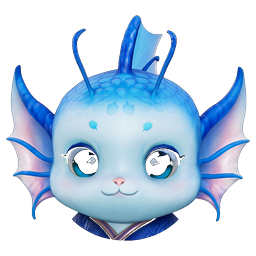
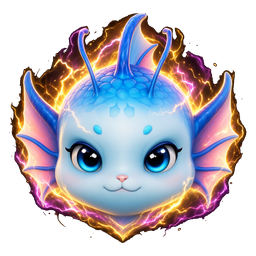
Preview: forward-facing themed spirit art v2
Front-view chibi spirits: friendly header Chunryu, crowned Top 20
Chunryu, and powered-up Haeryu/Haeryeong with gold-magenta lightning.
Cache mir4-v59, icons ?v=4.

diff --git a/index.html b/index.html
@@ -132,7 +132,7 @@ header::before{content:"";position:absolute;left:0;right:0;top:0;height:420px;z-
 .hwl{display:block;padding:8px 12px 12px;margin-top:2px;border-top:1px solid #2e1532}.hwx{display:inline-block;background:linear-gradient(90deg,#5a1450,#a3277f);color:#ffe8a0;padding:1px 7px;border-radius:4px;font-size:11px}.hwx s{text-decoration:line-through;text-decoration-color:#e8c872;text-decoration-thickness:2px}.hwg{color:#b9a3bd;font-size:11px;letter-spacing:.06em;text-transform:uppercase;margin:10px 0 4px}.hwi{display:flex;align-items:center;gap:10px;padding:6px 0;border-bottom:1px solid #2e1532;font-size:13px;color:#f2e8f2;line-height:1.35}.hwi:last-child{border-bottom:0}.hwk{flex:0 0 112px;display:flex;align-items:center;gap:3px;flex-wrap:wrap;color:#e8c872;font-size:12px}.hwk .ico{width:14px;height:14px}.hwrk{display:inline-flex;align-items:center;justify-content:center;width:17px;height:17px;border-radius:50%;border:1px solid rgba(232,200,114,.85);background:rgba(40,10,40,.85);color:#ffe9b0;font-size:10px;font-weight:800}.hwnlx{display:inline-block;font-size:11px;font-weight:600;line-height:1;padding:2px 5px;border-radius:999px;border:1px solid #6b2a5a;color:#f9a8d4;background:rgba(42,15,46,.7)}.hwrib{position:relative;display:inline-block;width:70px;height:30px;overflow:hidden;border-radius:7px;border:1px solid #6b2a5a;background:#1c0b20}
 .bfempty{margin:18px 4px;padding:16px 14px;border:1px dashed #5a3a5e;border-radius:12px;background:#1c1020;color:#e8c872;font-size:14px;line-height:1.45;text-align:center}.soldh:first-child{margin-top:4px}.soldnote{font-size:12px;color:#b9a3bd;margin:0 0 8px;line-height:1.4}.soldh{margin:14px 2px 8px;font-size:12px;font-weight:700;letter-spacing:.06em;text-transform:uppercase;color:#e8c872}.card.soldc{opacity:.92}.card.soldc .sci{padding:14px}.card.soldc .r1{display:flex;justify-content:space-between;align-items:flex-start;gap:10px}.card.soldc .r1>div{min-width:0}.card.soldc .nm{display:flex;align-items:center;gap:6px}.card.soldc .nm>*{flex:none}.card.soldc .soldb{margin-top:1px}.soldb{display:inline-flex;align-items:center;gap:4px;flex:none;max-width:52%;white-space:normal;text-align:center;line-height:1.2;padding:4px 7px;border-radius:5px;background:#e8c872;color:#2a1030;font-size:11px;font-weight:700}.tpa{margin:0 0 14px;padding-bottom:10px;border-bottom:1px solid #3a2040;max-width:100%;overflow-x:hidden}.tpa h4{font-weight:600}
 </style></head><body>
-<header><div class="htitle"><img class="spirit-ico" src="icons/spirit-header.png?v=3" alt="" width="56" height="56" decoding="async"><h1>MIR4 NFT Character Deal Finder</h1></div><div class="sub" id="meta">loading…</div><div id="msum" style="margin-top:6px;font-size:13px;color:#f2e8f2;background:rgba(42,15,46,.6);border:1px solid #6b2a5a;border-radius:8px;padding:6px 10px"></div></header>
+<header><div class="htitle"><img class="spirit-ico" src="icons/spirit-header.png?v=4" alt="" width="56" height="56" decoding="async"><h1>MIR4 NFT Character Deal Finder</h1></div><div class="sub" id="meta">loading…</div><div id="msum" style="margin-top:6px;font-size:13px;color:#f2e8f2;background:rgba(42,15,46,.6);border:1px solid #6b2a5a;border-radius:8px;padding:6px 10px"></div></header>
 <div class="ctl">
 <div class="sortl qs"><button data-s="strongest" title="Strongest first: build score, then cheaper">💪 Strongest</button><button data-s="best_buy" title="Best buy: build score + 1.5 x % under fair">🏆 Best buy</button><button data-s="value" title="Value per dollar: power and build score per $1k">💎 Value</button></div><label class="sortl" title="Sort order">↕ Sort<select id="fsort"><option value="strongest">Strongest first (build score, then cheaper)</option><option value="age_d">Longest listed first</option><option value="age_new">Newest on market first</option><option value="value">Value per $ (power and build per $1k)</option><option value="ps_k">Power per $1k</option><option value="bs_k">Build score per $1k</option><option value="best_buy">Best buy (build score + 1.5 × % under fair)</option><option value="discount">Best deal (% under fair)</option><option value="build_score">Build score (in-class ranks, see How build is calculated)</option><option value="atk">Highest ATK</option><option value="skill_dmg">Highest Skill ATK boost</option><option value="pvp_dmg">Highest PvP ATK</option><option value="def">Highest DEF</option><option value="eva">Highest EVA</option><option value="usd_asc">Lowest price</option><option value="newest">Newest listed</option><option value="price_cut">Price cut (biggest first)</option><option value="ps">Highest power</option></select></label>
 <label title="Class">🧙 Class<select id="fcls"><option value="">All</option></select></label>
@@ -350,4 +350,4 @@ bcmp.onclick=()=>{const cs=D.listings.filter(x=>sel.has(x.id));
  return `<tr><td>${l}</td>`+v.map(n=>`<td class="${n===best?'best':''}">${typeof n=='number'&&n>99999?big(n):typeof n=='number'?f(n,1):n??'–'}</td>`).join('')+'</tr>'}).join('')+'</table>';cmp.scrollIntoView()};
 document.querySelectorAll('.qs button').forEach(b=>b.onclick=()=>{fsort.value=b.dataset.s;draw()});
 {const _d=draw;draw=function(){document.querySelectorAll('.qs button').forEach(b=>b.classList.toggle('on',b.dataset.s==fsort.value));return _d.apply(this,arguments)}}
-</script><script src="premium.js?v=34"></script><script src="share.js?v=9"></script><script src="trend.js?v=3"></script><script src="wemix1h.js?v=6"></script><script src="strength.js?v=2"></script><script src="history.js?v=11"></script><script src="power.js?v=10"></script><script src="top20.js?v=50"></script><script src="boss.js?v=18"></script><script src="soldsearch.js?v=9"></script><script src="wemixlive.js?v=1"></script><script src="wemixhist.js?v=1"></script><script src="nav.js?v=30"></script></body></html>
+</script><script src="premium.js?v=34"></script><script src="share.js?v=9"></script><script src="trend.js?v=3"></script><script src="wemix1h.js?v=6"></script><script src="strength.js?v=2"></script><script src="history.js?v=11"></script><script src="power.js?v=11"></script><script src="top20.js?v=51"></script><script src="boss.js?v=18"></script><script src="soldsearch.js?v=9"></script><script src="wemixlive.js?v=1"></script><script src="wemixhist.js?v=1"></script><script src="nav.js?v=30"></script></body></html>

diff --git a/power.js b/power.js
@@ -54,12 +54,12 @@ PW.tool=function(){const q=document.getElementById('pwq'),L=document.getElementB
  const btn=(on,attr,t)=>`<button ${attr} style="font:inherit;font-size:12px;font-weight:600;padding:3px 10px;border-radius:999px;border:1px solid #5a3a5e;background:${on?'#e8c872':'#1c1020'};color:${on?'#2a1030':'#b9a3bd'};display:inline-flex;align-items:center;gap:0">${t}</button>`;
  const row=(k,i,big,small)=>{const[n,s]=k.split('|');return `<div data-k="${E(k)}" role="button" tabindex="0" style="display:flex;justify-content:space-between;align-items:center;gap:8px;width:100%;text-align:left;background:none;border:0;border-bottom:1px solid #3a2040;color:#f2e8f2;padding:8px 2px;font-size:13px;box-sizing:border-box"><span style="display:flex;align-items:center;min-width:0;flex:1"><span class="rk">${i+1}</span><span style="min-width:0;overflow-wrap:anywhere">${E(n)} ${svt(s)}</span></span><span style="white-space:nowrap;text-align:right;flex:none"><b style="color:#e8c872">${big}</b>${small?`<br><small style="color:#b9a3bd">${small}</small>`:''}</span></div>`};
  const grow=()=>PW.load().then(J=>{if(!J)return;const nd=(J.days||[]).length;let body,foot;
-  const head='<div style="display:flex;gap:6px;flex-wrap:wrap;margin:14px 0 6px">'+btn(mode=='top','data-m="top"','<img class="spico" src="icons/spirit-head-haeryu.png?v=3" alt="" width="30" height="30" decoding="async" loading="lazy"> Top power')+btn(mode=='grow','data-m="grow"','🚀 Fastest growing')+'</div>';
+  const head='<div style="display:flex;gap:6px;flex-wrap:wrap;margin:14px 0 6px">'+btn(mode=='top','data-m="top"','<img class="spico" src="icons/spirit-head-haeryu.png?v=4" alt="" width="30" height="30" decoding="async" loading="lazy"> Top power')+btn(mode=='grow','data-m="grow"','🚀 Fastest growing')+'</div>';
   if(mode=='top'){const T=PW.top(J,srv||null),S=PW.svs(J),n=Math.min(shown,T.length);
    const opts='<option value="">All servers</option>'+S.map(s=>`<option value="${E(s)}"${s==srv?' selected':''}>${E(s)}</option>`).join('');
    const pick=`<label style="display:block;margin:4px 0 8px;font-size:12px;color:#b9a3bd">Server<select id="pwsv" style="display:block;width:100%;max-width:100%;box-sizing:border-box;margin-top:4px;padding:9px 12px;border-radius:10px;border:1px solid #5a2550;background:#1a0f1e;color:#f2e8f2;font-size:15px">${opts}</select></label>`;
    const more=T.length>n?`<button data-more style="display:block;width:100%;margin:8px 0 2px;padding:9px 12px;border-radius:10px;border:1px solid #5a3a5e;background:#1c1020;color:#e8c872;font:inherit;font-size:13px;font-weight:600">Show more (${n} of ${T.length})</button>`:'';
-   const title=srv?`<img class="spico lg" src="icons/spirit-head-haeryeong.png?v=3" alt="" width="42" height="42" decoding="async" loading="lazy"> Top power · ${E(srv)}`:`<img class="spico lg" src="icons/spirit-head-haeryeong.png?v=3" alt="" width="42" height="42" decoding="async" loading="lazy"> Top power`;
+   const title=srv?`<img class="spico lg" src="icons/spirit-head-haeryeong.png?v=4" alt="" width="42" height="42" decoding="async" loading="lazy"> Top power · ${E(srv)}`:`<img class="spico lg" src="icons/spirit-head-haeryeong.png?v=4" alt="" width="42" height="42" decoding="async" loading="lazy"> Top power`;
    body='<div style="font-weight:700;color:#e8c872;font-size:14px;margin-bottom:4px">'+title+'</div>'+pick+(T.length?T.slice(0,n).map((r,i)=>row(r[0],i,'⚡ '+fm(r[1]),r[2]<r[1]*(1-PW.DIP)?'now '+fm(r[2])+', deck swap':'')).join('')+more:'<div style="font-size:13px;color:#b9a3bd;padding:8px 0">No characters on this server in the latest rankings yet.</div>');
    foot=srv?'Highest power on '+E(srv)+' in the latest daily rankings. A sudden drop usually means an EXP spirit and magic stone setup, so we rank by the best power of the last 7 days.':'Highest power in the latest daily rankings. Pick a server to rank its top 100. A sudden drop usually means an EXP spirit and magic stone setup, so we rank by the best power of the last 7 days.'}
   else{const rows=PW.grow(J,+win,srv||null),S=PW.svs(J),tabs=['7','30'].map(w=>btn(w==win,`data-w="${w}"`,`Last ${w} days`)).join(' ');

diff --git a/top20.js b/top20.js
@@ -23,7 +23,7 @@ const P=new URLSearchParams(location.search);
 const full=P.get('q')||P.get('sort')||P.get('region')||P.get('view')||location.hash.startsWith('#open1');
 document.body.classList.toggle('simple',!full);
 const hdr=document.querySelector('header'),box=document.createElement('div');box.id='t20';hdr.after(box);
-const back=document.createElement('button');back.id='back20';back.innerHTML='<img class="spico" src="icons/spirit-head-rabbit.png?v=3" alt="" width="30" height="30" decoding="async" loading="lazy"> Top 20';hdr.after(back);
+const back=document.createElement('button');back.id='back20';back.innerHTML='<img class="spico" src="icons/spirit-head-rabbit.png?v=4" alt="" width="30" height="30" decoding="async" loading="lazy"> Top 20';hdr.after(back);
 back.onclick=()=>{document.body.classList.add('simple');scrollTo(0,0)};
 const fm=n=>n==null?'–':Number(n).toLocaleString(undefined,{maximumFractionDigits:0});
 const TANK=['Taoist','Warrior','Lionheart'];const ALL=(window.T20S&&T20S.ALL)||['Warrior','Sorcerer','Taoist','Arbalist','Lancer','Darkist'];let selCls=localStorage.mir4t20c||'All';if(selCls!='All'&&!ALL.includes(selCls))selCls='All';
@@ -63,7 +63,7 @@ function autoNL(){const g=box.querySelector('.nlg');if(!g||g._as)return;g._as=1;
  requestAnimationFrame(step)}
 function render(){const R=score(T20S.pick(D.listings));const L=(selCls=='All'?R:R.filter(x=>x.cls==selCls)).slice(0,selCls=='All'?20:10);const ci=c=>`<img loading="lazy" decoding="async" src="icons/class/${c.toLowerCase()}.webp" alt="${c}" title="${c}">`;
  const chips=`<div class="fb"><button class="al${selCls=='All'?' on':''}" data-c="All">All</button>`+ALL.map(c=>`<button data-c="${c}" class="${selCls==c?'on':''}">${ci(c)}${c}</button>`).join('')+'</div>';
- box.innerHTML=`<div class="hd"><b><img class="spico lg" src="icons/spirit-head-chunryu.png?v=3" alt="" width="42" height="42" decoding="async" loading="lazy"> Top 20 strongest</b><span style="display:flex;gap:8px;align-items:center"><a href="classes.html" id="bycls" style="color:#e8c872;font-weight:700;font-size:13px;text-decoration:none">Top by class →</a><button id="mbtn">☰ More</button></span></div>${chips}${latest2()}`+
+ box.innerHTML=`<div class="hd"><b><img class="spico lg" src="icons/spirit-head-chunryu.png?v=4" alt="" width="42" height="42" decoding="async" loading="lazy"> Top 20 strongest</b><span style="display:flex;gap:8px;align-items:center"><a href="classes.html" id="bycls" style="color:#e8c872;font-weight:700;font-size:13px;text-decoration:none">Top by class →</a><button id="mbtn">☰ More</button></span></div>${chips}${latest2()}`+
  L.map((x,i)=>`<div class="tr20${x.discount>0?' u':''}" data-id="${x.id}"><div class="rw">${cb(x.cls,i+1)}<div style="min-width:0"><div class="n">${x.name}</div><div class="m">${keys(x)}<span>⚡ ${fm(x.ps/1000)}k</span><span>${I('gauge')} ${x.build_score}</span>${x.full_conf=='low'?'<span title="few similar sales">⚠</span>':''}${AGE.chip(x)}</div>${AGE.badges(x)?'<div>'+AGE.badges(x)+'</div>':''}</div><div class="p"><b>$${fm(x.usd)}</b><small>${fm(x.wemix)} W</small><small class="w1h" data-w="${x.wemix}"></small><span class="d ${x.discount>0?'pos':'neg'}">${x.discount==null?'':x.discount>0?'▼ '+x.discount+'% under':'▲ '+(-x.discount)+'% over'}</span></div></div></div>`).join('');
  mbtn.onclick=()=>{document.body.classList.remove('simple');scrollTo(0,0)};box.querySelectorAll('.fb [data-c]').forEach(b=>b.onclick=()=>{selCls=b.dataset.c;localStorage.mir4t20c=selCls;render()});autoNL();
  box.querySelectorAll('.nb a.fn').forEach(a=>a.onclick=e=>{e.stopPropagation();solo(a.dataset.l,D.listings)});

diff --git a/sw.js b/sw.js
@@ -1,7 +1,7 @@
 // Service worker: fast repeat visits and offline support. Also handles notification clicks.
-const V='mir4-v58',SHELL=['./','index.html','classes.html','guide.html','changelog.html','offline.html','manifest.json',
-'icons/ui/listed.svg','nav.js?v=30','age.js?v=6','strength.js?v=2','premium.js?v=34','share.js?v=9','icons/ui/share.svg','trend.js?v=3','wemix1h.js?v=6','wemixlive.js?v=1','wemixhist.js?v=1','history.js?v=11','power.js?v=10','top20.js?v=50','boss.js?v=18','soldsearch.js?v=9',
-'icons/banner-m.jpg?v=1','icons/app-192.png?v=4','icons/spirit-header.png?v=3','icons/spirit-head-chunryu.png?v=3','icons/spirit-head-rabbit.png?v=3','icons/spirit-head-haeryeong.png?v=3','icons/spirit-head-haeryu.png?v=3'];
+const V='mir4-v59',SHELL=['./','index.html','classes.html','guide.html','changelog.html','offline.html','manifest.json',
+'icons/ui/listed.svg','nav.js?v=30','age.js?v=6','strength.js?v=2','premium.js?v=34','share.js?v=9','icons/ui/share.svg','trend.js?v=3','wemix1h.js?v=6','wemixlive.js?v=1','wemixhist.js?v=1','history.js?v=11','power.js?v=11','top20.js?v=51','boss.js?v=18','soldsearch.js?v=9',
+'icons/banner-m.jpg?v=1','icons/app-192.png?v=4','icons/spirit-header.png?v=4','icons/spirit-head-chunryu.png?v=4','icons/spirit-head-rabbit.png?v=4','icons/spirit-head-haeryeong.png?v=4','icons/spirit-head-haeryu.png?v=4'];
 self.addEventListener('install',e=>{self.skipWaiting();e.waitUntil(caches.open(V).then(c=>Promise.all(SHELL.map(u=>c.add(u).catch(()=>{})))))});
 self.addEventListener('activate',e=>e.waitUntil(caches.keys().then(ks=>Promise.all(ks.filter(k=>k.startsWith('mir4-')&&k!==V&&k!==V+'-data').map(k=>caches.delete(k)))).then(()=>self.clients.claim())));
 const isData=u=>u.pathname.endsWith('.json');

diff --git a/changelog.html b/changelog.html
@@ -17,7 +17,7 @@ header::before{content:"";position:absolute;left:0;right:0;top:0;height:420px;z-
 :where(body>header,body>main,body>section,body>#app,body>.wrap){position:relative;z-index:1}
 body{position:relative;isolation:isolate}body::before{content:"";position:absolute;left:0;right:0;top:0;height:340px;z-index:-1;pointer-events:none;background:linear-gradient(90deg,rgba(18,10,20,.85),rgba(18,10,20,.3) 50%,transparent 75%),url(icons/banner-m.jpg?v=1) 72% center/cover no-repeat;opacity:.45;-webkit-mask-image:linear-gradient(180deg,#000 50%,transparent);mask-image:linear-gradient(180deg,#000 50%,transparent)}.sb{background:rgba(28,16,32,.6)!important;backdrop-filter:blur(6px);position:sticky;z-index:2}main{position:relative;z-index:1}
 .it small.ts{display:block;margin-top:3px;font-size:11px;color:#9c86a0;letter-spacing:.02em}</style></head>
-<body><div class="sb"><a href="./">← Back</a><div class="htitle"><img class="spirit-ico" src="icons/spirit-header.png?v=3" alt="" width="56" height="56" decoding="async"><b>✨ What's new</b></div></div><main id="m">Loading…</main>
+<body><div class="sb"><a href="./">← Back</a><div class="htitle"><img class="spirit-ico" src="icons/spirit-header.png?v=4" alt="" width="56" height="56" decoding="async"><b>✨ What's new</b></div></div><main id="m">Loading…</main>
 <script>
 const tz={timeZone:'America/Los_Angeles'},d=t=>new Intl.DateTimeFormat('en-CA',tz).format(t),n=Date.now();
 const lab=s=>s==d(n)?'Today':s==d(n-864e5)?'Yesterday':new Date(s+'T12:00:00Z').toLocaleDateString('en-US',{timeZone:'UTC',weekday:'short',month:'short',day:'numeric'});

diff --git a/guide.html b/guide.html
@@ -42,7 +42,7 @@ header::before{content:"";position:absolute;left:0;right:0;top:0;height:420px;z-
 .nt{font-size:12px;color:#b9a3bd;margin:10px 0}.nt a,.src a{color:#e8c872}.src{font-size:11px;color:#b9a3bd;margin-top:6px;line-height:1.7}.lg{display:flex;flex-wrap:wrap;gap:6px;font-size:11px;color:#b9a3bd;margin:6px 0}
 h2{display:flex;align-items:center;gap:8px;color:#e8c872;font-size:18px;margin:14px 0 4px}h2 img{width:28px;height:28px}
 </style></head><body>
-<header><div class="htitle"><img class="spirit-ico" src="icons/spirit-header.png?v=3" alt="" width="56" height="56" decoding="async"><h1>📘 Class guide</h1></div><a href="index.html">← Top 20</a></header>
+<header><div class="htitle"><img class="spirit-ico" src="icons/spirit-header.png?v=4" alt="" width="56" height="56" decoding="async"><h1>📘 Class guide</h1></div><a href="index.html">← Top 20</a></header>
 <div id="w"><div class="fb" id="fb"></div>
 <div class="nt">Skills, cooldowns and descriptions from the game data at mir4db.wiki and official notes. Combos and leveling tips come from community guides and may be older than recent patches. X% means the value grows with the skill tier. Listed cooldowns are base values before Cooldown Reduction. Key effects list what a skill adds by tier (T8 means Tier 8); some sources are older than recent patches.</div>
 <div class="lg"><span class="ty ult">Ultimate</span><span class="ty start">Combo starter</span><span class="ty fin">Combo finisher</span><span class="ty util">Utility</span><span class="ty skill">Skill</span></div>

diff --git a/classes.html b/classes.html
@@ -33,7 +33,7 @@ header::before{content:"";position:absolute;left:0;right:0;top:0;height:420px;z-
 @keyframes fall{to{transform:translate(-60px,110vh) rotate(540deg)}}
 :where(body>header,body>main,body>section,body>#app,body>.wrap){position:relative;z-index:1}
 </style></head><body>
-<header><div class="htitle"><img class="spirit-ico" src="icons/spirit-header.png?v=3" alt="" width="56" height="56" decoding="async"><h1><img class="spico lg" src="icons/spirit-head-haeryu.png?v=3" alt="" width="42" height="42" decoding="async" loading="lazy"> Top by class</h1></div><a href="index.html">← Top 20</a></header>
+<header><div class="htitle"><img class="spirit-ico" src="icons/spirit-header.png?v=4" alt="" width="56" height="56" decoding="async"><h1><img class="spico lg" src="icons/spirit-head-haeryu.png?v=4" alt="" width="42" height="42" decoding="async" loading="lazy"> Top by class</h1></div><a href="index.html">← Top 20</a></header>
 <div id="w"><div class="fb" id="fb"></div><div class="ex">Same strength score as the Top 20, under $25k, listed now. Tap a name to open the character.</div><div id="out" class="em">Loading…</div></div>
 
 <script src="strength.js?v=2"></script><script src="age.js?v=6"></script>
